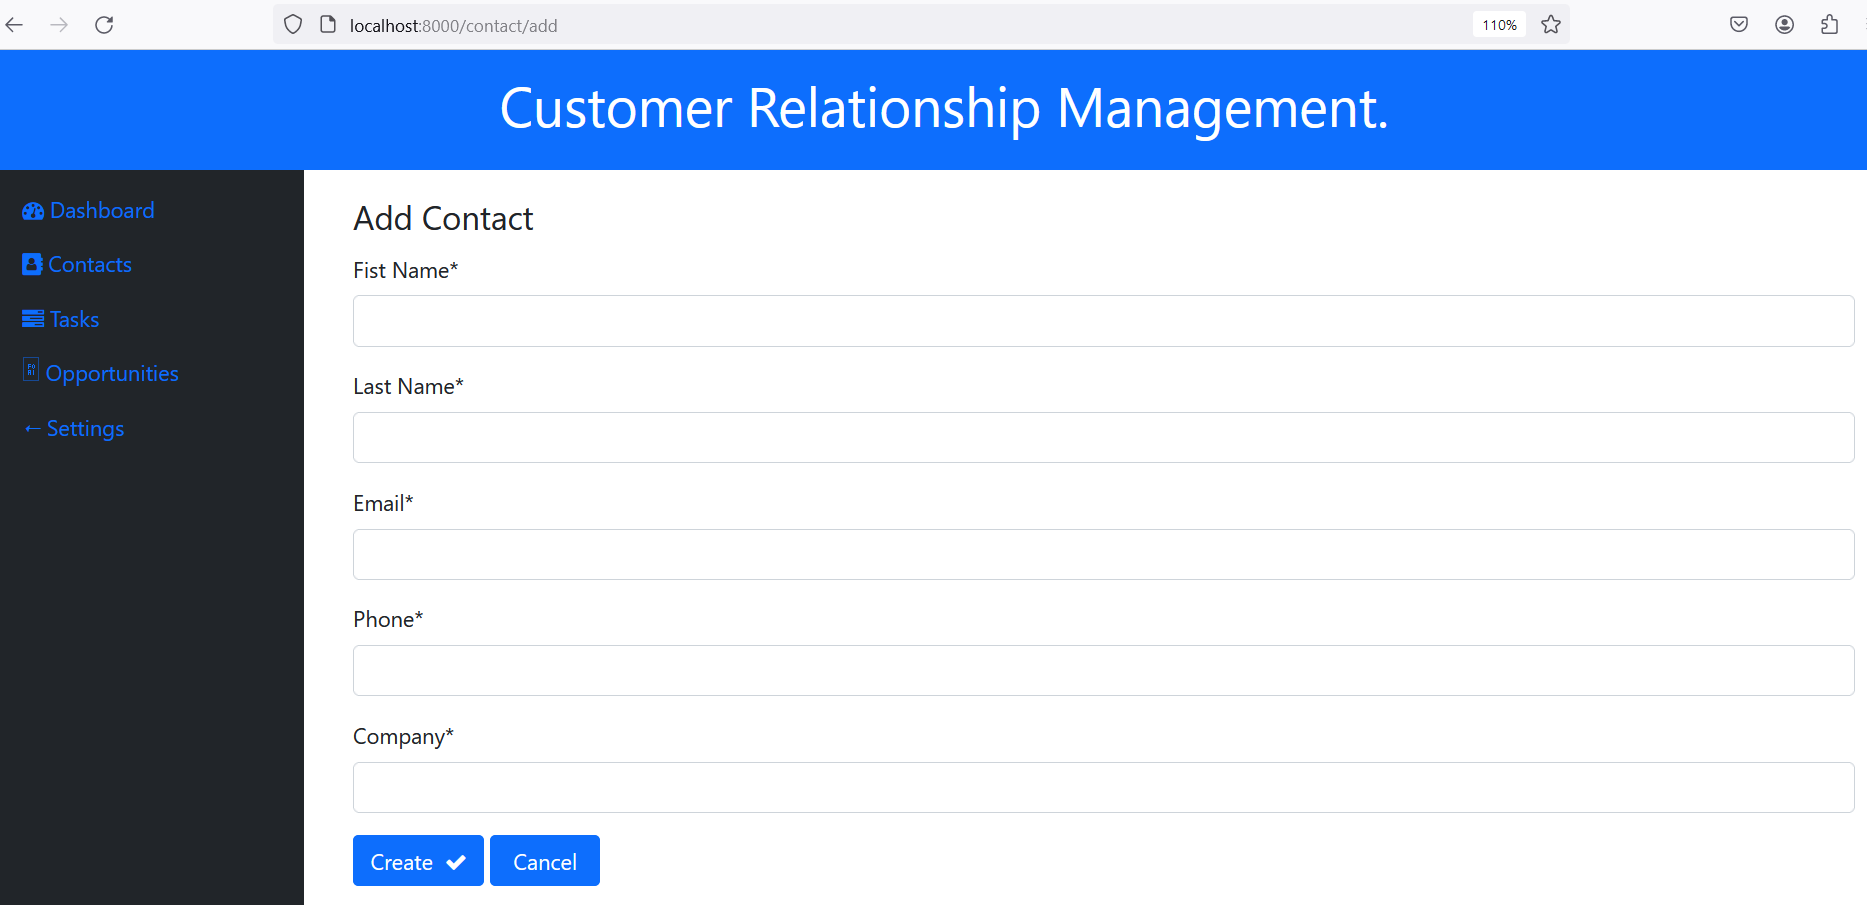
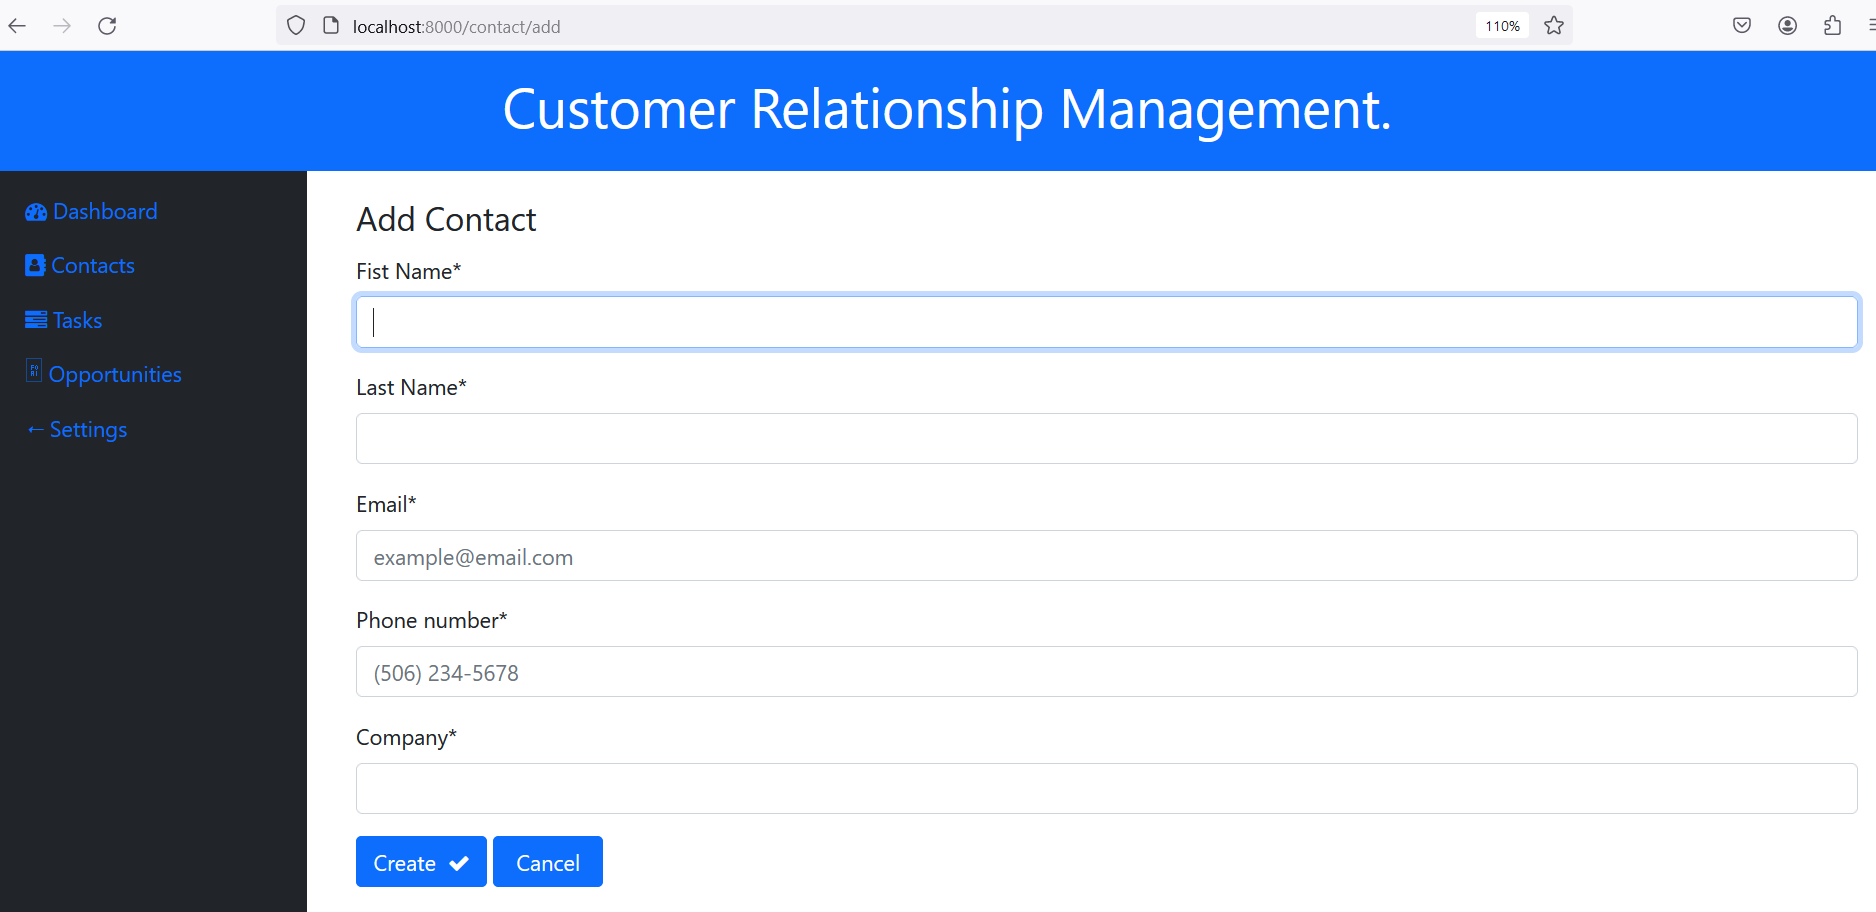
Update

diff --git a/crm/webapp/forms.py b/crm/webapp/forms.py
@@ -1,9 +1,9 @@
 from django import forms
-from .models import ContactDto
+from phonenumber_field.formfields import PhoneNumberField
 
 class ContactForm(forms.Form):
     first_name = forms.CharField(label='Fist Name', min_length=2)
     last_name = forms.CharField(label='Last Name', min_length=2)
-    email = forms.EmailField()
-    phone = forms.CharField()
+    email= forms.CharField(max_length=100, widget= forms.EmailInput(attrs={'placeholder':'example@email.com'}))
+    phone = PhoneNumberField(region="CA", widget=forms.TextInput(attrs={'placeholder': '(506) 234-5678'}), label="Phone Number", required=True)
     company = forms.CharField()

diff --git a/crm/crm/settings.py b/crm/crm/settings.py
@@ -41,6 +41,7 @@ INSTALLED_APPS = [
     'webapp.apps.WebappConfig',
     'crispy_forms',
     'crispy_bootstrap5',
+    "phonenumber_field",
 ]
 
 CRISPY_ALLOWED_TEMPLATE_PACKS = "bootstrap5"

diff --git a/README.md b/README.md
@@ -19,6 +19,7 @@ Here are the technology stack used in the project:
 - azure ad authentication and authorization
 - fontawesome
 - Azure authentication and Authorization
+- javascript/jquery
 
 ## 4. Preparing Development Environment
 
